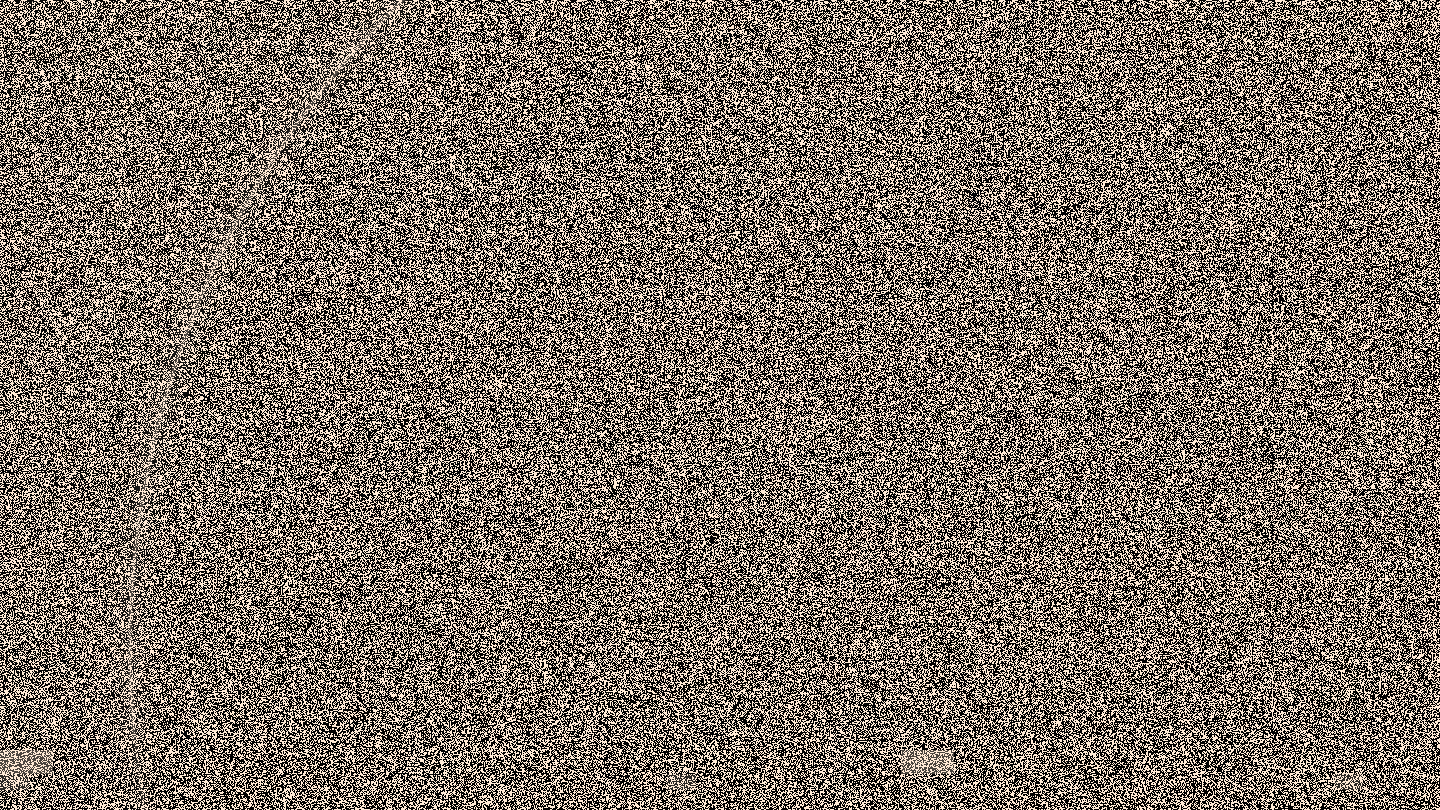
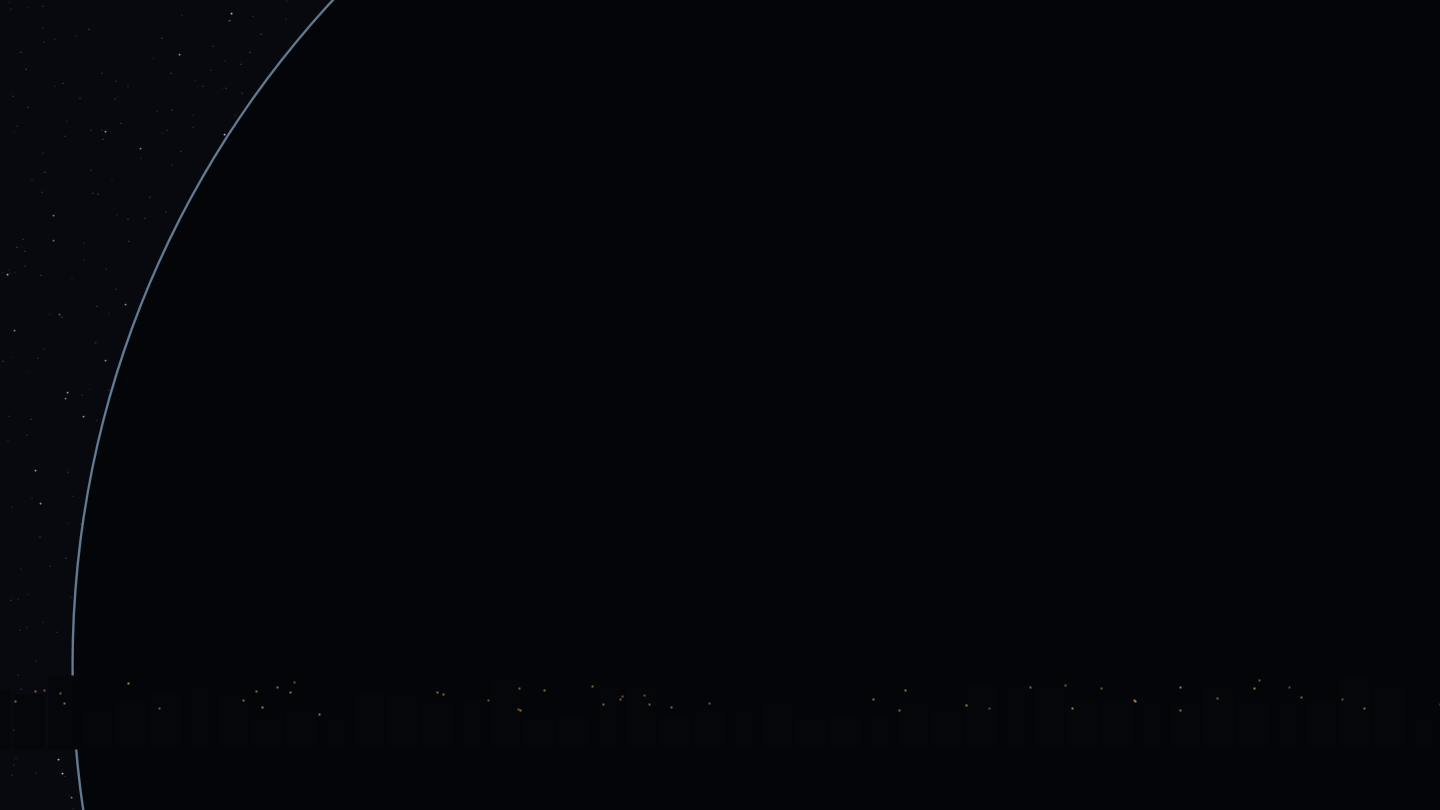
Refine backpack grid, HUD hints and silhouette art
Expand the inventory to a 24-slot grid with a right-side item detail, move the journal legend under the clock, tighten the task chip, hide the pointless day-two door prompt after the foil token, and replace the first-night obstruction with a readable cold-rimmed silhouette.

diff --git a/Weekend/Assets/Scripts/Narrative/CultNeighbor.cs b/Weekend/Assets/Scripts/Narrative/CultNeighbor.cs
@@ -147,7 +147,7 @@ namespace DeathBySeventhsDawn.Interaction
 
         public bool KnockDoor()
         {
-            if (TimeManager.Instance.Days != 2 || GameManager.Instance.LoopCount != 0)
+            if (TimeManager.Instance.Days != 2 || GameManager.Instance.LoopCount != 0 || HasToken)
                 return false;
             Hit(knock);
             if (State.cultDayOneTalked && Investigation.Has("cult-door-note") && !HasToken)
@@ -293,7 +293,7 @@ namespace DeathBySeventhsDawn.Interaction
             }
             else if (day == 2)
             {
-                if (!Investigation.Has("cult-door-note"))
+                if (!Investigation.Has("cult-door-note") || HasToken)
                     return;
                 prompt = StoryText.Local(State.cultTokenOffered && !HasToken ? "E  敲门，取回门缝边的小三角" : "E  敲 401 的门", State.cultTokenOffered && !HasToken ? "E  Knock; the triangle is by the crack" : "E  Knock on 401");
                 if (k != null && k.eKey.wasPressedThisFrame && WorldPromptUI.CanActivate("neighbor"))
@@ -424,14 +424,15 @@ namespace DeathBySeventhsDawn.Interaction
                 }
 
                 Fill(new Rect(0, 0, w, h), new Color(.018f, .025f, .026f, .99f));
-                float pw = Mathf.Min(880, w - 80);
+                float pw = Mathf.Min(1280, w - 80);
                 Rect panel = new Rect((w - pw) / 2, 50, pw, h - 100);
                 if (view == View.Bag)
                 {
-                    GUI.Label(new Rect(panel.x, panel.y, pw, 50), StoryText.Local("背包", "Inventory") + "   " + State.inventory.Count + " / 12", heading);
-                    const int columns = 4, rows = 3;
-                    const float slot = 86f, gap = 12f;
+                    GUI.Label(new Rect(panel.x, panel.y, pw, 50), StoryText.Local("背包", "Inventory") + "   " + State.inventory.Count + " / 24", heading);
+                    const int columns = 6, rows = 4;
+                    const float slot = 96f, gap = 12f;
                     float gridX = panel.x + 24, gridY = panel.y + 92;
+                    var slotNumber = new GUIStyle(small) { alignment = TextAnchor.MiddleCenter, fontSize = 22 };
                     for (int i = 0; i < columns * rows; i++)
                     {
                         var cell = new Rect(gridX + (i % columns) * (slot + gap), gridY + (i / columns) * (slot + gap), slot, slot);
@@ -447,12 +448,16 @@ namespace DeathBySeventhsDawn.Interaction
                                 GUI.DrawTexture(new Rect(cell.x + 8, cell.y + 8, cell.width - 16, cell.height - 16), tokenArt, ScaleMode.ScaleToFit);
                             GUI.Label(new Rect(cell.x + 6, cell.yMax - 24, cell.width - 12, 20), item == Token ? StoryText.Current.cult.itemTitle : item, small);
                         }
+                        else
+                            GUI.Label(new Rect(cell.x, cell.y, cell.width, cell.height), "+", slotNumber);
                     }
 
+                    float detailX = panel.x + 24 + columns * (slot + gap);
+                    float detailW = pw - 48 - columns * (slot + gap);
                     if (HasToken)
                     {
-                        GUI.Label(new Rect(panel.x + 24 + columns * (slot + gap), panel.y + 92, pw - 48 - columns * (slot + gap), 50), StoryText.Current.cult.itemTitle, heading);
-                        GUI.Label(new Rect(panel.x + 24 + columns * (slot + gap), panel.y + 146, pw - 48 - columns * (slot + gap), 190), StoryText.Current.cult.itemBody, text);
+                        GUI.Label(new Rect(detailX, panel.y + 92, detailW, 50), StoryText.Current.cult.itemTitle, heading);
+                        GUI.Label(new Rect(detailX, panel.y + 146, detailW, 190), StoryText.Current.cult.itemBody, text);
                     }
                     else
                         GUI.Label(new Rect(panel.x, panel.y + 110, pw, 100), StoryText.Local("背包是空的。探索房间，看看有什么值得带走。", "The bag is empty. Explore and find something worth carrying."), text);

diff --git a/Weekend/Assets/Scripts/UI/WorldPromptUI.cs b/Weekend/Assets/Scripts/UI/WorldPromptUI.cs
@@ -141,8 +141,8 @@ namespace DeathBySeventhsDawn.Progression
                     if (game.State.journalUnlocked)
                     {
                         label.fontSize = 14;
-                        label.alignment = TextAnchor.UpperLeft;
-                        GUI.Label(new Rect(28, 70, 360, 36), StoryText.Local("J 日记", "J Journal") + (game.State.investigationUnlocked ? StoryText.Local("  ·  B 连线", "  ·  B Board") : "") + StoryText.Local("  ·  I 背包", "  ·  I Inventory"), label);
+                        label.alignment = TextAnchor.UpperRight;
+                        GUI.Label(new Rect(w - 225, 70, 200, 36), StoryText.Local("J 日记", "J Journal") + (game.State.investigationUnlocked ? StoryText.Local("  ·  B 连线", "  ·  B Board") : "") + StoryText.Local("  ·  I 背包", "  ·  I Inventory"), label);
                     }
                 }
 
@@ -154,8 +154,8 @@ namespace DeathBySeventhsDawn.Progression
                     // One compact top-left task chip. No full-width bottom banner.
                     label.fontSize = 15;
                     label.alignment = TextAnchor.MiddleLeft;
-                    float textHeight = label.CalcHeight(new GUIContent(VisiblePrompt), 268);
-                    var p = new Rect(28, 106, 300, Mathf.Clamp(textHeight + 18, 44, 84));
+                    float textHeight = label.CalcHeight(new GUIContent(VisiblePrompt), 248);
+                    var p = new Rect(28, 106, 280, Mathf.Clamp(textHeight + 18, 44, 84));
                     NarrativeUI.Panel(p);
                     GUI.Label(new Rect(p.x + 14, p.y + 8, p.width - 28, p.height - 16), VisiblePrompt, label);
                 }
